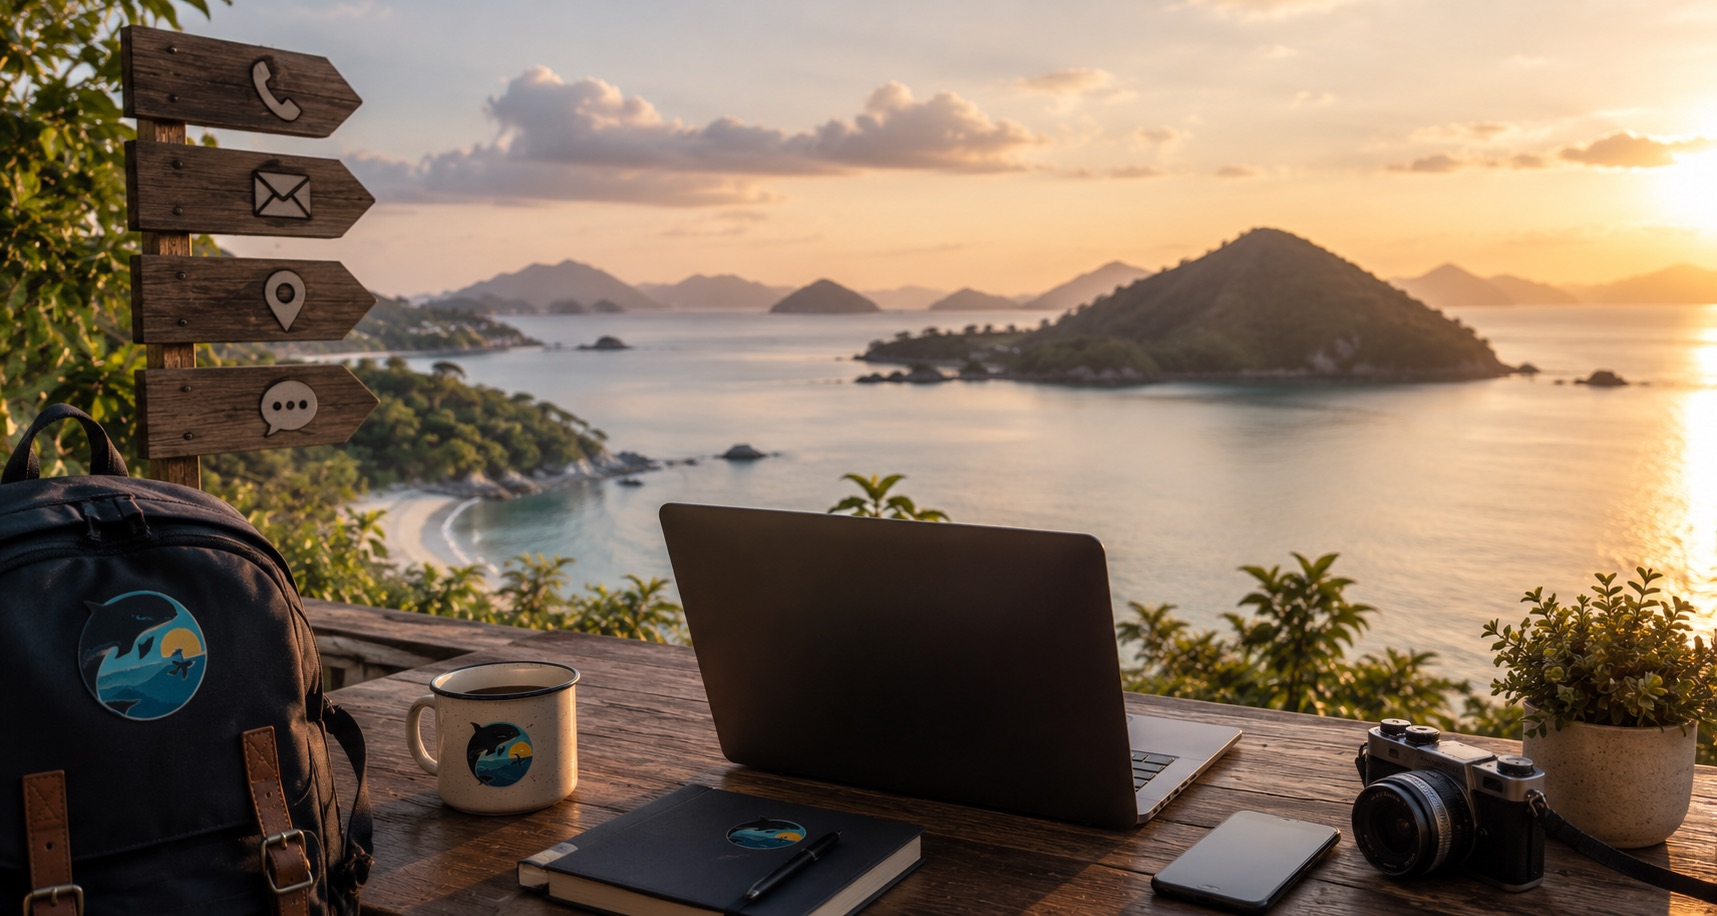
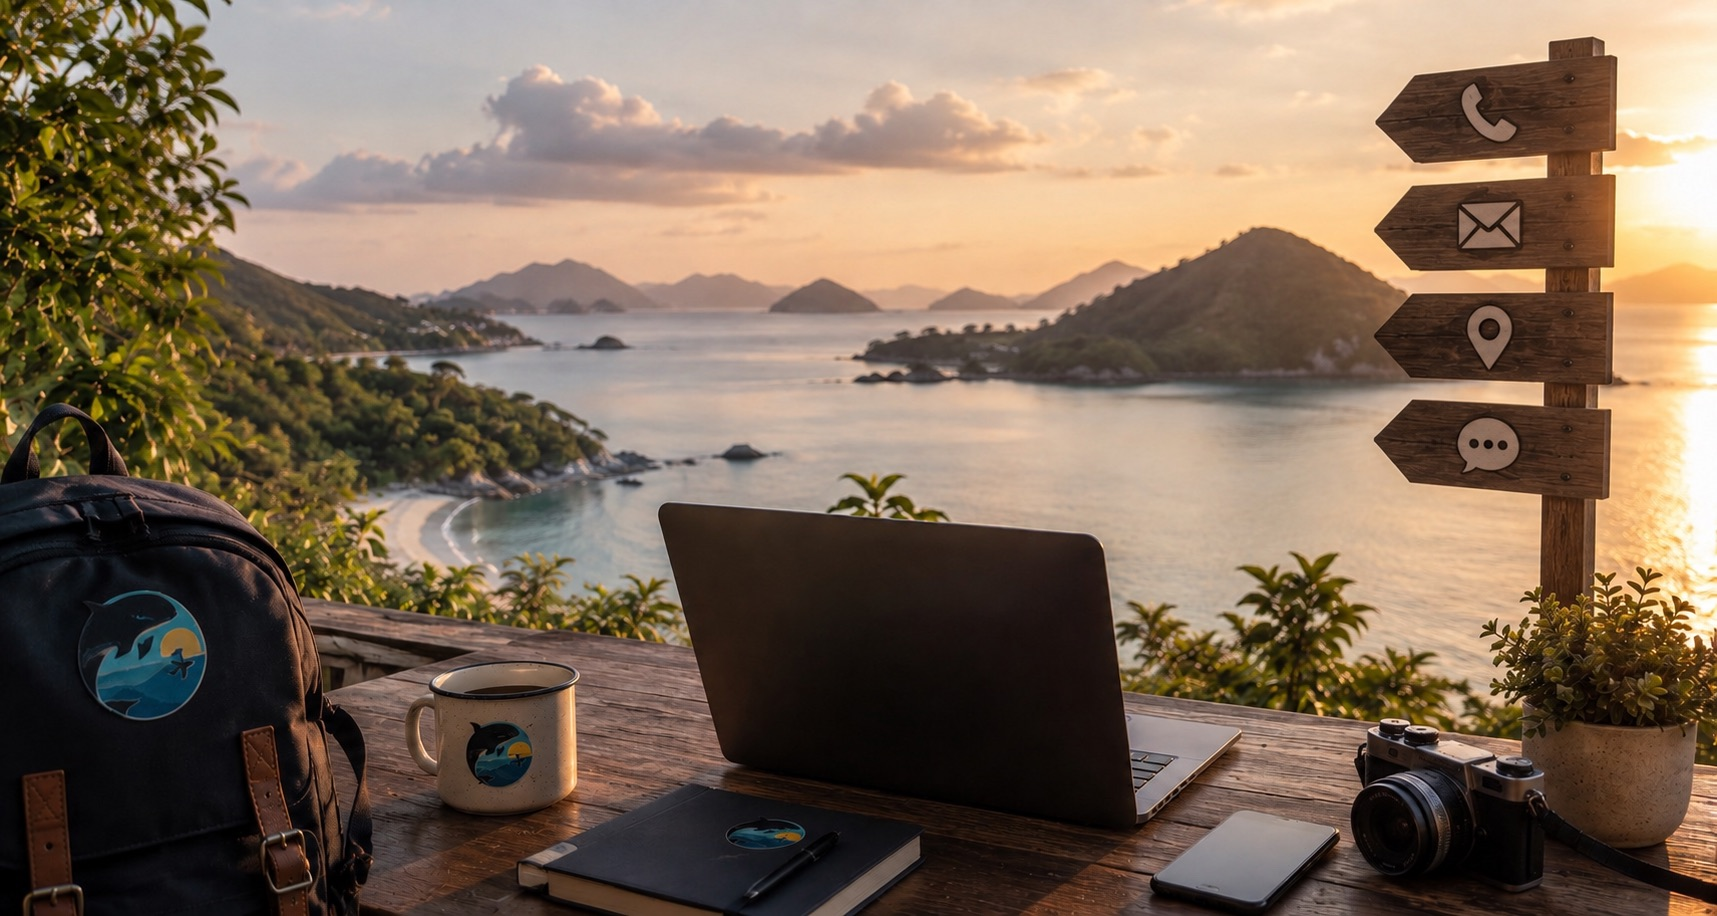
fix(kontak): hero tampil utuh, tidak dipotong
Fotonya punya isi di keempat penjurunya — papan penunjuk bertanda
telepon, surat, peta, dan percakapan di kanan; ransel, cangkir, laptop,
buku, dan kamera di bawah. Bingkai hero hanya memuat 561 dari 916 baris,
jadi apa pun potongannya selalu ada yang hilang: memilih papannya berarti
membuang mejanya, dan sebaliknya.

Karena itu bukan potongannya yang diatur, melainkan bingkainya:
seksinya diberi nisbah yang sama dengan fotonya (1717/916), sehingga
object-cover tidak memotong apa pun. Hanya di layar lebar — di layar
sempit nisbah selebar ini menghasilkan pita pendek yang tidak muat untuk
judulnya.

Kelasnya ditulis lengkap di halaman pemanggil, bukan dirangkai di dalam
komponen: Tailwind membaca berkas sumber apa adanya, dan kelas yang
dirakit dari variabel tidak pernah ikut terbangun.

Berkasnya juga dipadatkan ulang. Isinya sempat berganti di tengah jalan
(papan penunjuknya berpindah dari kiri ke kanan) dan ukurannya kembali
2,0 MB; penjagaan hero yang baru dipasang kemarin yang menangkapnya,
bukan mata saya. Sekarang 336 KB.

diff --git a/resources/views/components/page-hero.blade.php b/resources/views/components/page-hero.blade.php
@@ -5,6 +5,7 @@
     'image' => 'images/pantai-senja.jpg',
     'posisi' => 'center',
     'gambarPenuh' => null,
+    'kelas' => '',
 ])
 
 {{-- Kepala halaman untuk semua halaman informasi (FAQ, ketentuan, testimoni).
@@ -15,7 +16,12 @@
 
      `gambarPenuh` dipakai bila sumbernya sudah berupa URL/berkas siap pakai
      (mis. sampul paket), sehingga tidak perlu lewat asset(). --}}
-<section class="relative overflow-hidden bg-orcha-navy">
+{{-- `kelas` dipakai halaman yang fotonya harus tampil UTUH: dengan
+     memberi seksinya nisbah yang sama dengan fotonya, object-cover tidak
+     memotong apa pun. Kelasnya ditulis lengkap di halaman pemanggil, bukan
+     dirakit di sini — Tailwind membaca berkas sumber apa adanya, dan kelas
+     yang dirangkai dari variabel tidak pernah ikut terbangun. --}}
+<section class="relative overflow-hidden bg-orcha-navy {{ $kelas }}">
     <img src="{{ $gambarPenuh ?: asset($image) }}" alt=""
         class="absolute inset-0 object-cover w-full h-full opacity-60"
         style="object-position: {{ $posisi }};">

diff --git a/resources/views/livewire/public/kontak/index.blade.php b/resources/views/livewire/public/kontak/index.blade.php
@@ -142,7 +142,12 @@ new #[Layout('components.layouts.guest')] #[Title('Kontak Kami — Orcha Journey
 <div>
     <x-page-hero title="Kontak Kami" eyebrow="Hubungi Orcha Journey"
         subtitle="Pilih kanal yang paling nyaman untuk Anda. Pertanyaan lewat WhatsApp biasanya dibalas dalam hitungan menit."
-        image="images/HERO/kontak.jpg" posisi="center 30%" />
+        image="images/HERO/kontak.jpg"
+        {{-- Nisbah fotonya sendiri (1717x916): dengan begitu tidak ada bagian
+             yang terpotong — papan penunjuk di kanan dan meja di bawah ikut
+             terlihat. Hanya di layar lebar; di layar sempit nisbah selebar ini
+             menghasilkan pita pendek yang tidak muat untuk judulnya. --}}
+        kelas="lg:aspect-[1717/916]" />
 
     <section class="bg-white section-orcha">
         <div class="container-orcha">
